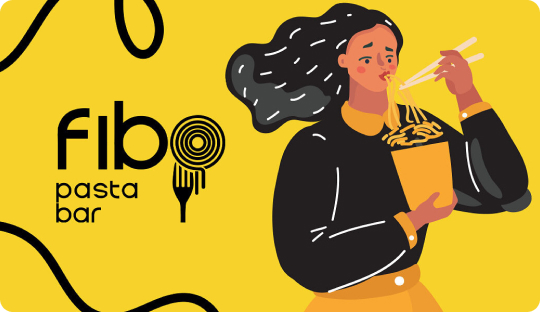
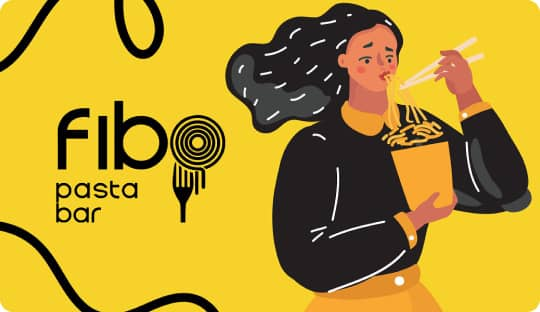
Уменьшение размера картинок

diff --git a/config/build/buildPlugins.ts b/config/build/buildPlugins.ts
@@ -5,6 +5,7 @@ import ReactRefreshWebpackPlugin from '@pmmmwh/react-refresh-webpack-plugin';
 import CircularDependencyPlugin from 'circular-dependency-plugin';
 import ForkTsCheckerWebpackPlugin from 'fork-ts-checker-webpack-plugin';
 import dotenv from 'dotenv';
+import { BundleAnalyzerPlugin } from 'webpack-bundle-analyzer';
 import { type BuildOptions } from './types/config';
 import { NonceInjector } from './plugins/nonceInjector';
 
@@ -62,18 +63,19 @@ export function buildPlugins({
       }),
 
       new NonceInjector("_NONCE_"),
+      
    ];
 
    // CI (github actions) запускаются только при dev
    if (isDev) {
       plugins.push(new ReactRefreshWebpackPlugin());
       // В новой версии не нужен HotModuleReplacementPlugin если в devServere стоит hot: true,
-      // plugins.push(
-      //    new BundleAnalyzerPlugin({
-      //       // не открывается постоянно
-      //       openAnalyzer: true, // запуск по ссылке в терминале
-      //    }),
-      // ); // Анализирует размер бандла
+      plugins.push(
+         new BundleAnalyzerPlugin({
+            // не открывается постоянно
+            openAnalyzer: true, // запуск по ссылке в терминале
+         }),
+      ); // Анализирует размер бандла
    }
 
    if (isProd) {

diff --git a/config/build/buildWebpackConfig.ts b/config/build/buildWebpackConfig.ts
@@ -30,7 +30,7 @@ export function buildWebpackConfig(
     resolve: buildResolvers(options), // Чтобы не указывать расширение при импорте
     // Не срабатывают при production
     // devtool: isDev ? 'eval-cheap-module-source-map' : undefined, // позволяет видеть где в коде произошла ошибка
-    devtool: isDev ? "cheap-module-source-map" : undefined, // убрал eval из-за ошибки загрузки кода CSP
+    devtool: isDev ? "cheap-module-source-map" : false, // убрал eval из-за ошибки загрузки кода CSP
     devServer: isDev ? buildDevServer(options) : undefined,
   };
 }
